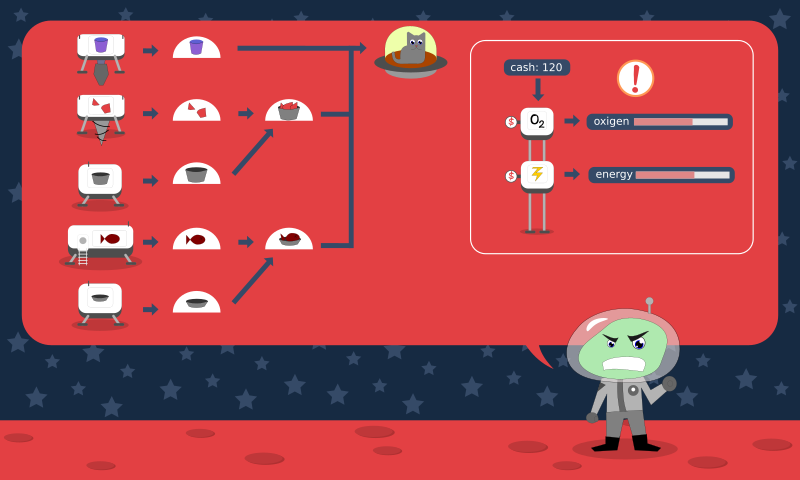
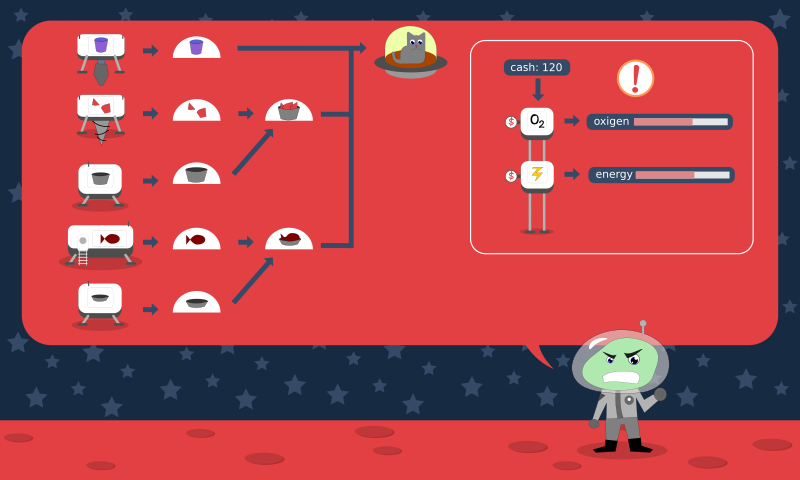
added Text to the tutorial screen

Changed region(s): [[0.6875, 0.625, 0.875, 0.9688]]

diff --git a/core/src/com/strzal/hungry/screens/TutorialScreen.java b/core/src/com/strzal/hungry/screens/TutorialScreen.java
@@ -7,8 +7,10 @@ import com.badlogic.gdx.scenes.scene2d.ui.Image;
 import com.badlogic.gdx.scenes.scene2d.ui.Table;
 import com.badlogic.gdx.scenes.scene2d.ui.TextButton;
 import com.badlogic.gdx.scenes.scene2d.utils.ClickListener;
+import com.rafaskoberg.gdx.typinglabel.TypingLabel;
 import com.strzal.hungry.BasicGame;
 import com.strzal.hungry.config.GameStats;
+import com.strzal.hungry.config.GameTexts;
 import com.strzal.hungry.constants.ImagesPaths;
 import com.strzal.hungry.screenManager.ScreenEnum;
 import com.strzal.hungry.screenManager.ScreenManager;
@@ -49,6 +51,33 @@ public class TutorialScreen extends BasicMenuScreen {
         mainTable.add(nextButton);
 
         stage.addActor(background);
+        stage.addActor(mainTable);
+        initText();
+    }
+
+    private void initText(){
+        //labels and text
+        TypingLabel label;
+
+        //Create Table
+        Table mainTable = new Table();
+        //Set table to fill stage
+        mainTable.setFillParent(true);
+        //Set alignment of contents in the table.
+        mainTable.left().bottom();
+        mainTable.padLeft(340);
+        mainTable.padBottom(160);
+
+        // Create a TypingLabel instance with your custom text
+        label = new TypingLabel(GameTexts.TUTORIAL_TEXT, skin);
+
+
+        //Add buttons to table
+        mainTable.add(label);
+        mainTable.row();
+
+
+        //Add table to stage
         stage.addActor(mainTable);
     }
 

diff --git a/core/src/com/strzal/hungry/config/GameTexts.java b/core/src/com/strzal/hungry/config/GameTexts.java
@@ -62,5 +62,11 @@ public class GameTexts {
                     "                                           " +
                     "{COLOR=WHITE}Top Cash:    {COLOR=GREEN} {VAR=cash} \n";
 
+    public static final String TUTORIAL_TEXT =
+            "{FASTER}{COLOR=GREEN}" +
+                    "Careful!  \n" +
+                    "{COLOR=WHITE}Most things consume {COLOR=GREEN}ENERGY{COLOR=WHITE} \n" +
+                    "but Oxygen and Energy generators consume {COLOR=GREEN}CASH";
+
     private GameTexts(){}
 }
